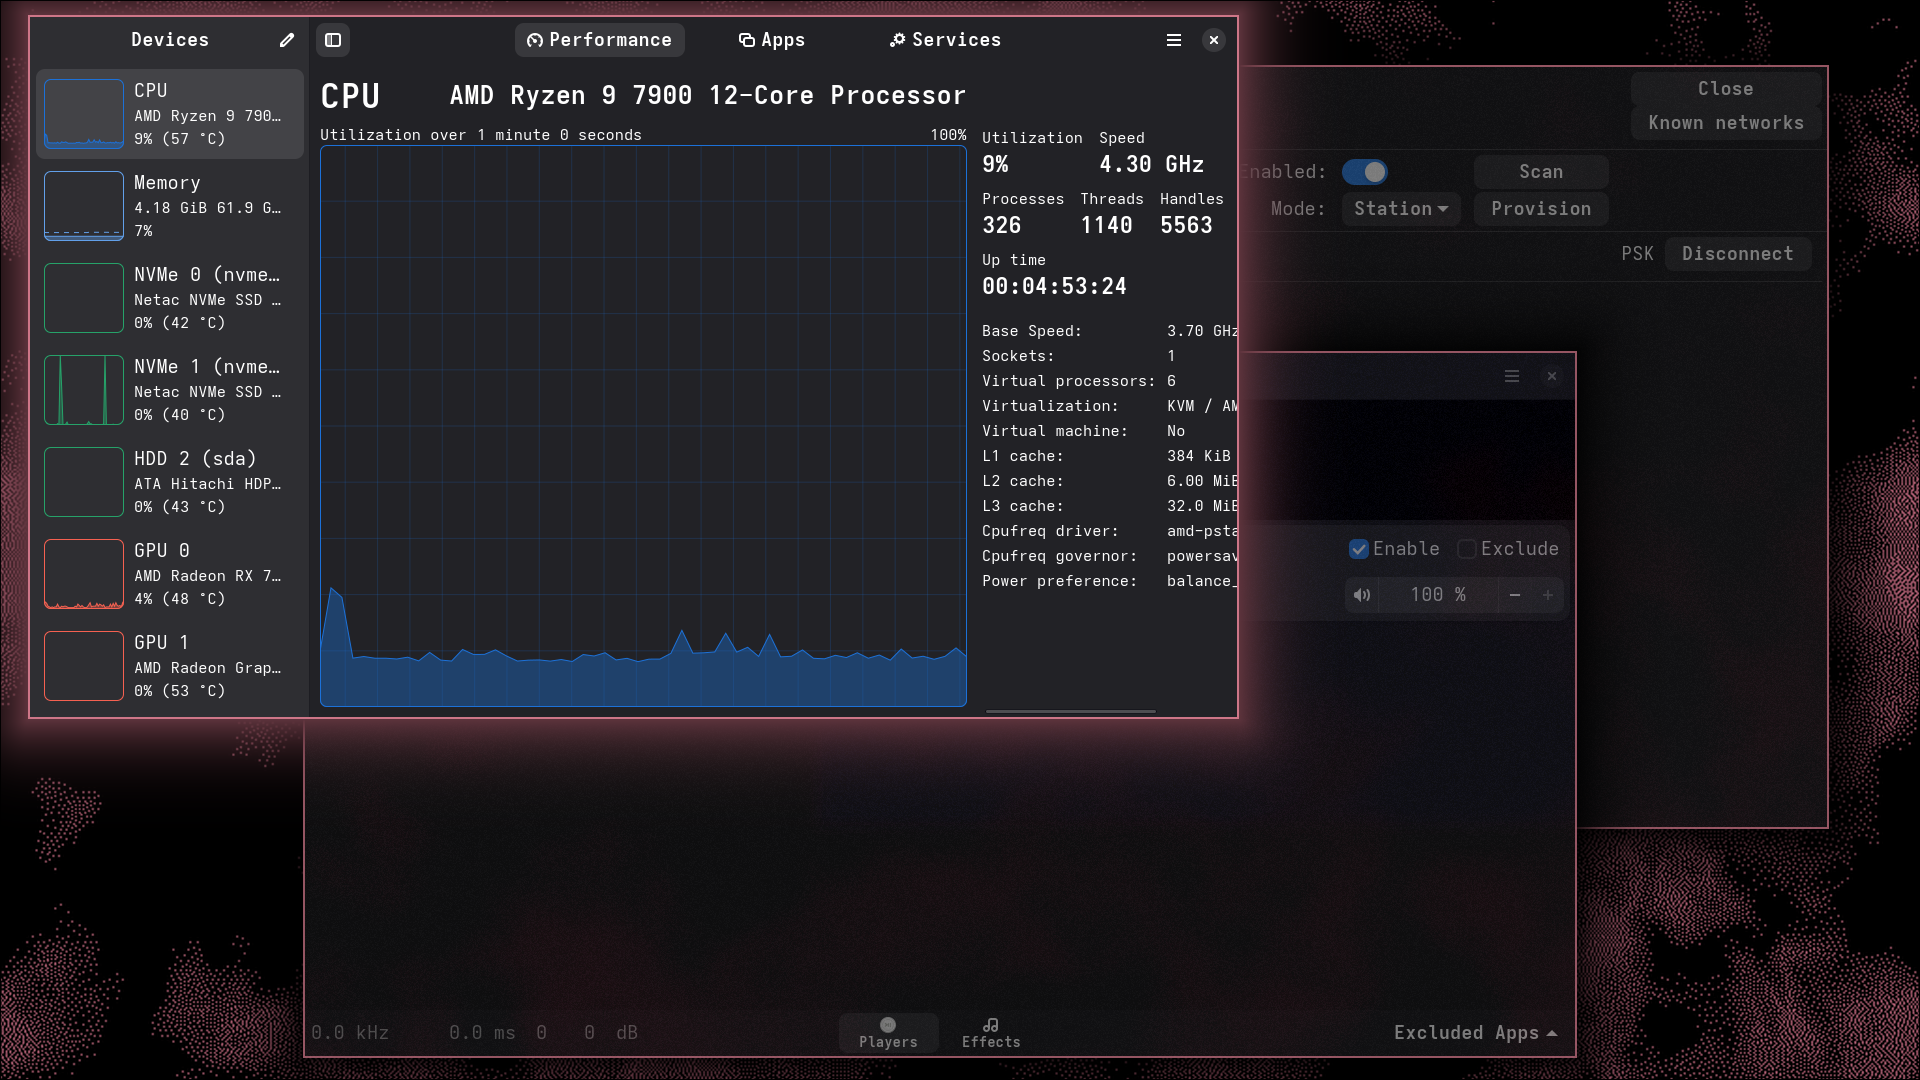
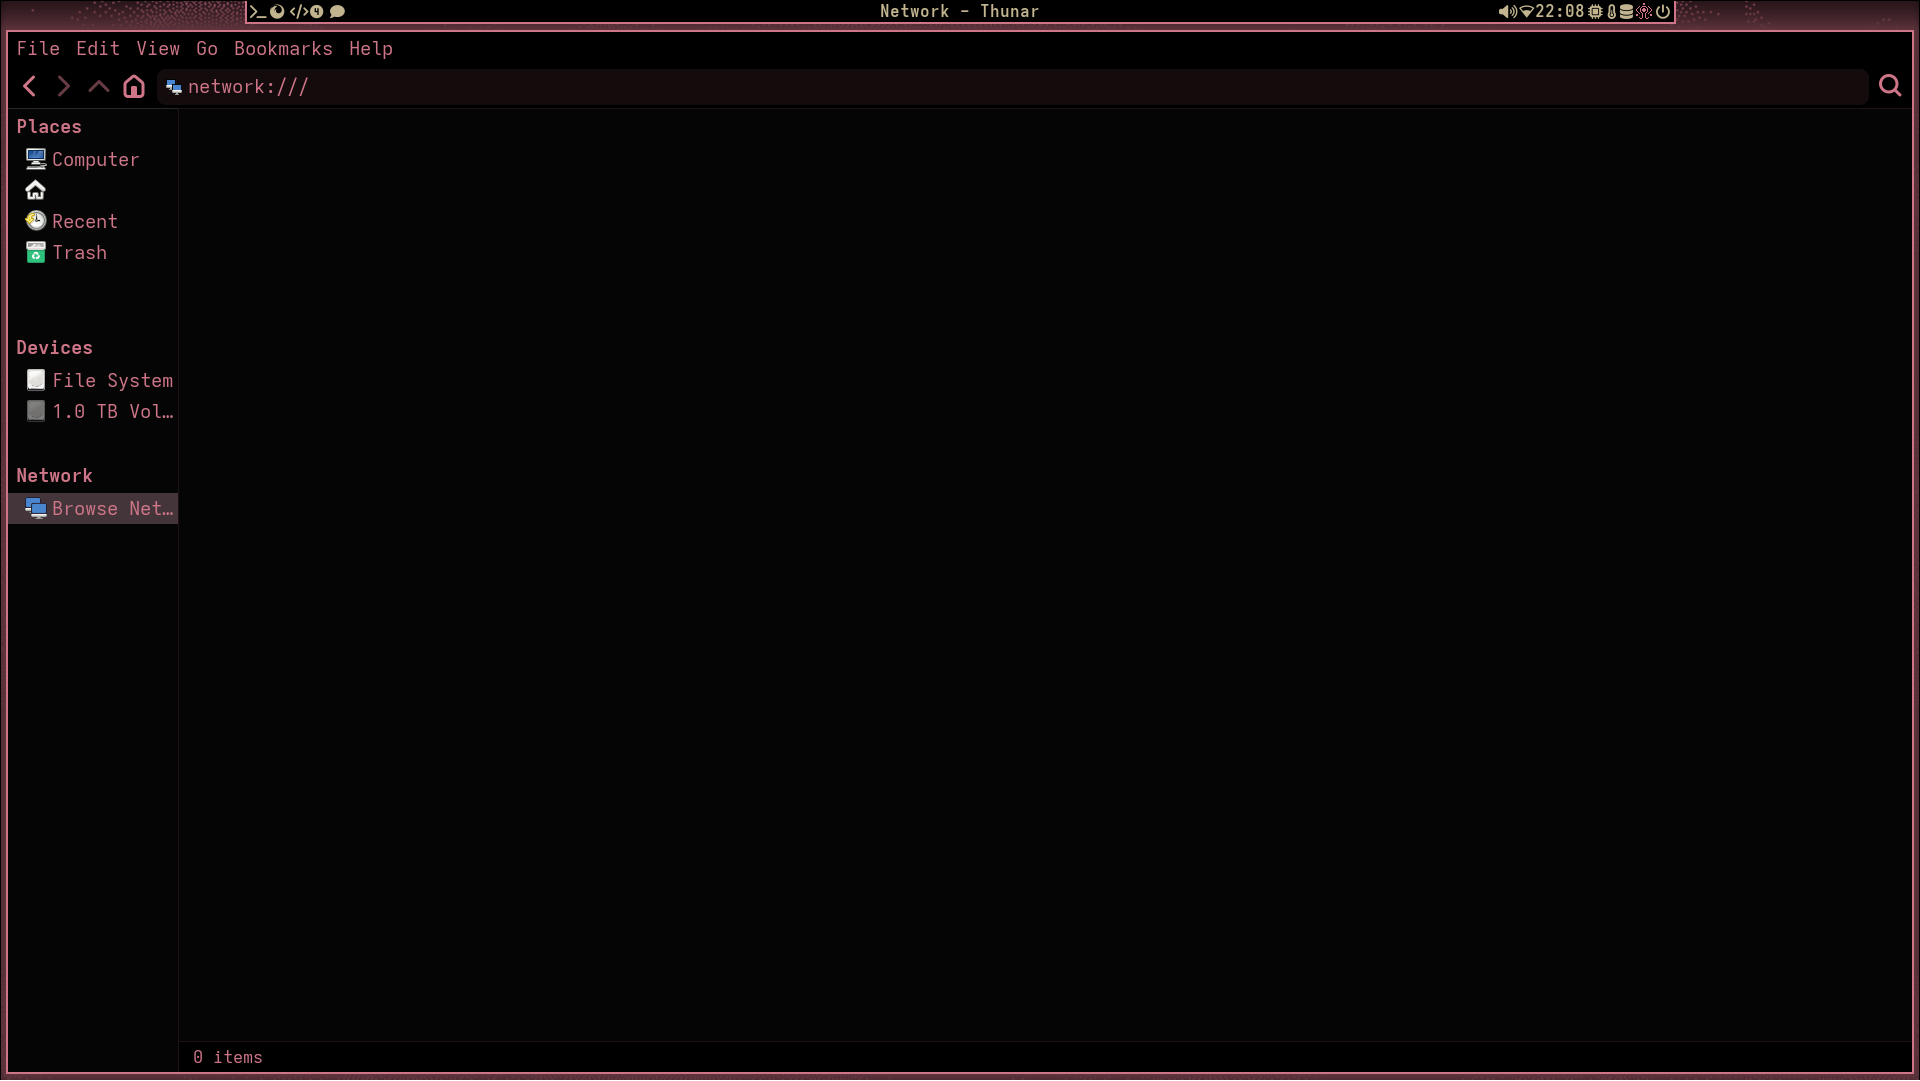
Changed GTK showcase image

diff --git a/README.md b/README.md
@@ -186,7 +186,5 @@ You can read more about how to help in the [contributing guide](./.github/CONTRI
 © [The authors and contributors](./.github/AUTHORS.md)
 
 ## TODO
-- [ ] Change GTK showcase.png
-
 - Symlink install as default option
 - Performance mode (remove all processing-heavy styling from hyprland config)